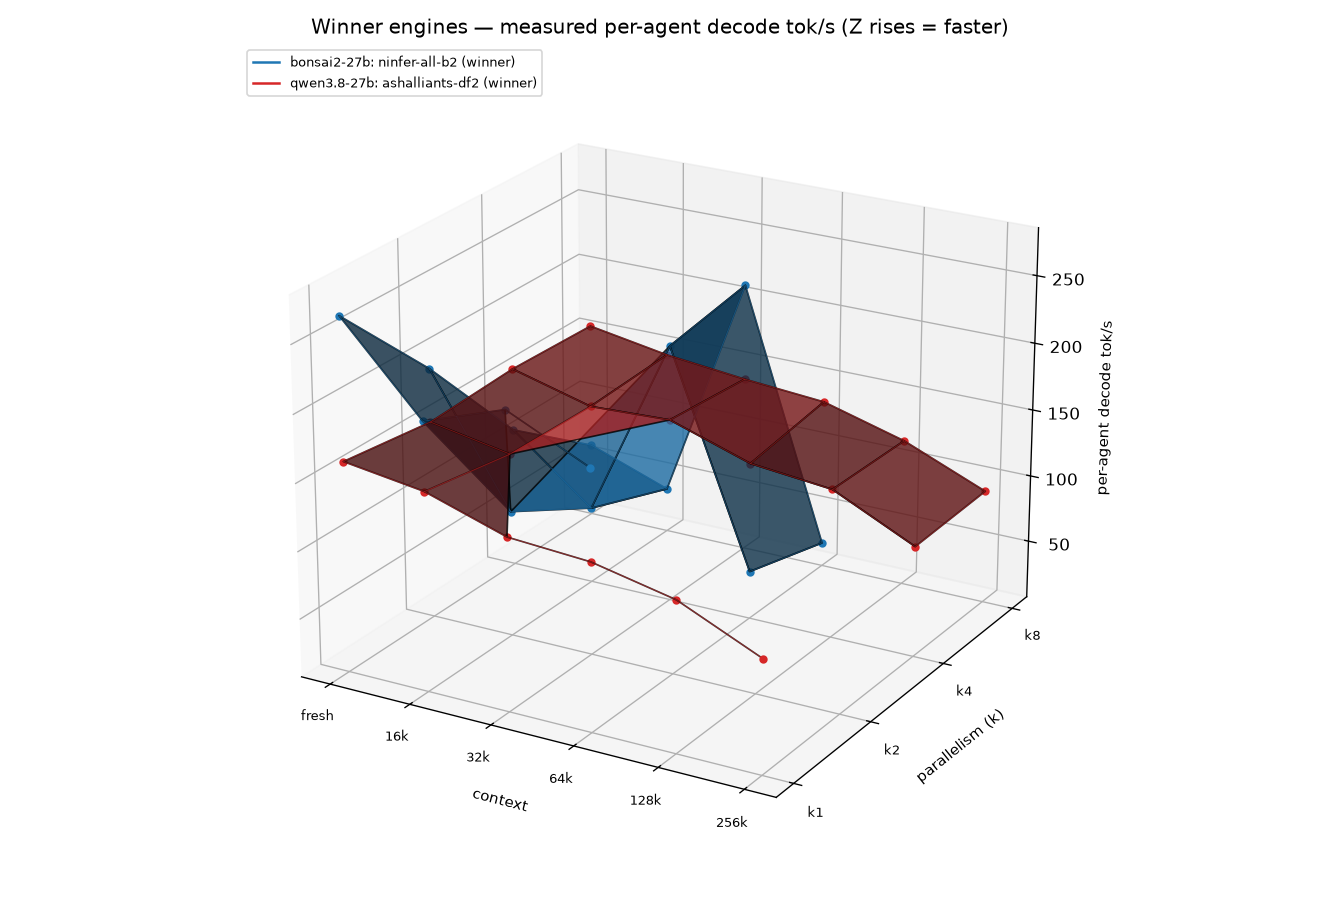
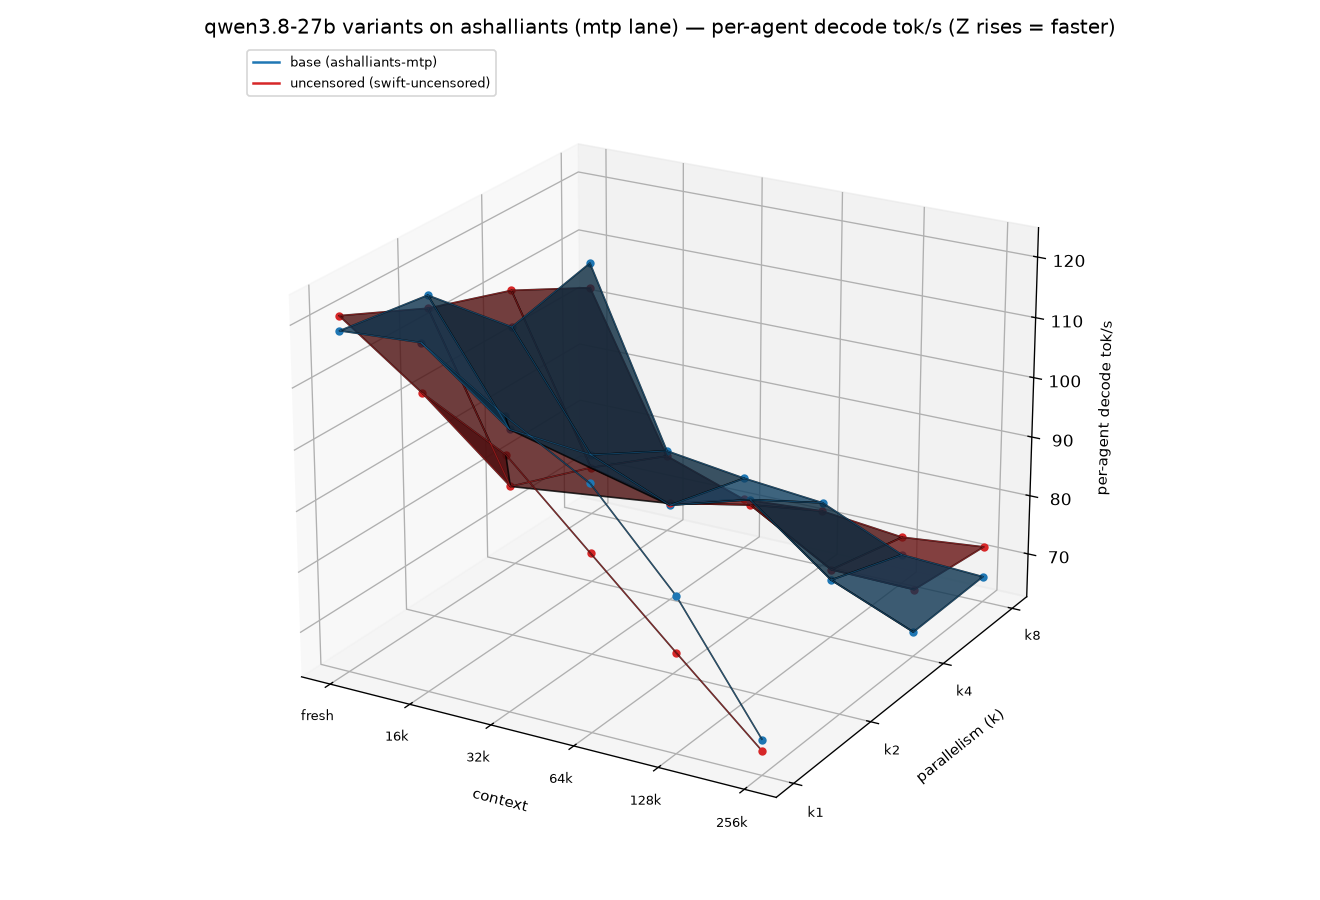
feat(bench): winner plot = qwen3.8 variants on ashalliants engine
Winner section plot now compares the benchmarked qwen3.8-27b weight
variants head-to-head on one engine canvas: base (ashalliants-mtp)
vs uncensored (swift-uncensored), Z = per-agent decode tok/s,
X = context, Y = parallelism k, shared mtp lane (dflash2 has no
uncensored counterpart, so mixing lanes would compare spec
acceleration, not weights). QWEN_VARIANTS in analyze.py is the
extension point as further variant arms (vision, ...) land.

diff --git a/benchmarks/engines-2026-10/analyze.py b/benchmarks/engines-2026-10/analyze.py
@@ -194,35 +194,39 @@ def main():
         plt.close(fig)
         print(f"wrote {p.name}")
 
-    # Winner-engine surface: one plot closing the report. Per model,
-    # plot the WINNING ENGINE's measured surface (peak per-agent tok/s
-    # criterion, mirroring report.py's Winner bullets; lane-excluded
-    # variants can never win). Z = per-agent decode tok/s, X = context,
-    # Y = parallelism k. One canvas, one surface per model family.
-    COMPARABLE_EXCLUDED = {"swift-uncensored"}
+    # Variant-comparison surface closing the report (user spec
+    # 2026-10-10): qwen3.8-27b variants on the ashalliants engine —
+    # base vs uncensored (swift) — Z = per-agent decode tok/s,
+    # X = context, Y = parallelism k. Only the shared mtp lane is
+    # plottable: the tuned dflash2 lane has no uncensored counterpart
+    # (the swift artifact carries no dflash2 draft weights), so mixing
+    # lanes would compare spec acceleration, not weights. Extend
+    # QWEN_VARIANTS as further variant arms (vision, ...) land.
+    QWEN_VARIANTS = {"ashalliants-mtp": "base",
+                     "swift-uncensored": "uncensored"}
     fig = plt.figure(figsize=(11, 7.5))
     ax = fig.add_subplot(111, projection="3d")
-    all_ctxs = sorted({r["ctx"] for rs in models.values() for r in rs})
-    all_concs = sorted({r["conc"] for rs in models.values() for r in rs})
+    qrows = models.get("qwen3.8-27b", [])
+    all_ctxs = sorted({r["ctx"] for r in qrows} or {0})
+    all_concs = sorted({r["conc"] for r in qrows} or {1})
     drew = False
-    for i, (model, mrows) in enumerate(models.items()):
-        grid_all = defaultdict(dict)
-        for r in mrows:
-            if not r["agents"]:
+    for i, (tag, vlabel) in enumerate(QWEN_VARIANTS.items()):
+        grid = {}
+        for r in qrows:
+            if r["tag"] != tag or not r["agents"]:
                 continue
             a = r["agents"][-1]
             if a["ok"] <= 0 or a["mean_decode_tps"] <= 0:
                 continue
-            grid_all[r["tag"]][(r["ctx"], r["conc"])] = a["mean_decode_tps"]
-        rank_tags = [t for t in grid_all if t not in COMPARABLE_EXCLUDED]
-        if not rank_tags:
+            grid[(r["ctx"], r["conc"])] = a["mean_decode_tps"]
+        if not grid:
             continue
-        pk_tag = max(rank_tags, key=lambda t: max(grid_all[t].values()))
-        grid = grid_all[pk_tag]
         Z = np.full((len(all_concs), len(all_ctxs)), np.nan)
         for (ctx, conc), tps in grid.items():
             Z[all_concs.index(conc), all_ctxs.index(ctx)] = tps
         Zm = np.ma.masked_invalid(Z)
+        if Zm.count() == 0:
+            continue
         Xg, Yg = np.meshgrid(range(len(all_ctxs)), range(len(all_concs)))
         col = PALETTE[i % len(PALETTE)]
         drew = True
@@ -236,7 +240,7 @@ def main():
         for (ctx, conc), tps in grid.items():
             ax.scatter(all_ctxs.index(ctx), all_concs.index(conc), tps,
                        color=col, s=16, depthshade=False)
-        ax.plot([], [], [], color=col, label=f"{model}: {pk_tag} (winner)")
+        ax.plot([], [], [], color=col, label=f"{vlabel} ({tag})")
     if drew:
         ax.set_xticks(range(len(all_ctxs)))
         ax.set_xticklabels(
@@ -247,8 +251,8 @@ def main():
         ax.set_xlabel("context", fontsize=9, labelpad=8)
         ax.set_ylabel("parallelism (k)", fontsize=9, labelpad=8)
         ax.set_zlabel("per-agent decode tok/s", fontsize=9, labelpad=6)
-        ax.set_title("Winner engines — measured per-agent decode tok/s "
-                     "(Z rises = faster)")
+        ax.set_title("qwen3.8-27b variants on ashalliants (mtp lane) — "
+                     "per-agent decode tok/s (Z rises = faster)")
         ax.view_init(elev=22, azim=-60)
         ax.legend(fontsize=8, loc="upper left")
         fig.tight_layout()

diff --git a/benchmarks/engines-2026-10/report.py b/benchmarks/engines-2026-10/report.py
@@ -295,9 +295,10 @@ def main():
     else:
         lines += ["_No model produced ok cells._"]
     if (ROOT / "results" / "surf3d_winner.png").exists():
-        lines += ["", "Winner engines' measured throughput — per-agent decode "
-                  "tok/s (Z = tok/s up = faster, X = context, "
-                  "Y = parallelism k):", "",
+        lines += ["", "qwen3.8-27b variants on the ashalliants engine "
+                  "(shared mtp lane) — per-agent decode tok/s "
+                  "(Z = tok/s up = faster, X = context, Y = parallelism k):",
+                  "",
                   "![winner surface](engines-2026-10/results/"
                   "surf3d_winner.png)"]
     lines += [

diff --git a/benchmarks/INFERENCE-ENGINES.md b/benchmarks/INFERENCE-ENGINES.md
@@ -166,7 +166,7 @@ _None outstanding._
 - **bonsai2-27b**: peak `ninfer-all-b2` 267.5 tok/s per-agent; at high parallelism×deep ctx — C8 × 32k: `ninfer-all-b2` 210.9 tok/s vs `q27-t3-solo` 71.0.
 - **qwen3.8-27b**: peak `ashalliants-df2` 162.7 tok/s per-agent; at high parallelism×deep ctx — C8 × 256k: `ashalliants-df2` 91.9 tok/s vs `ashalliants-mtp` 66.9; swift-uncensored (mtp lane) C8 × 256k: 72.0 tok/s, +7.7% vs `ashalliants-mtp` 66.9.
 
-Winner engines' measured throughput — per-agent decode tok/s (Z = tok/s up = faster, X = context, Y = parallelism k):
+qwen3.8-27b variants on the ashalliants engine (shared mtp lane) — per-agent decode tok/s (Z = tok/s up = faster, X = context, Y = parallelism k):
 
 ![winner surface](engines-2026-10/results/surf3d_winner.png)
 
